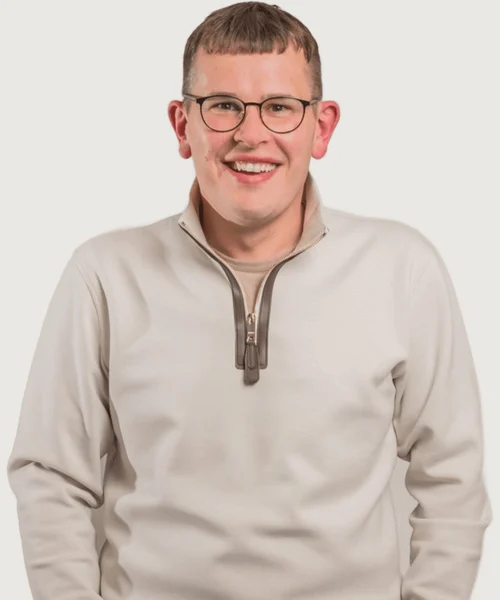
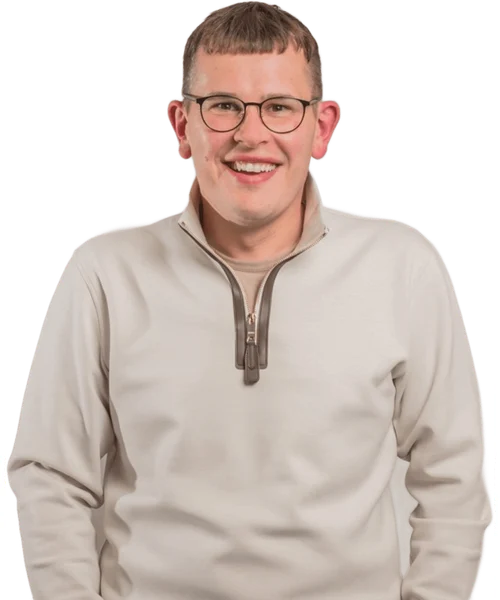
copy edits, photos on white, add Reece, System section rewrite
Quote data:
- Robbie Newton: "I feel like I did when I was in my early thirties"
  (was "gained another five years")
- Jaz RESULTS: 110kg → 102kg; "Enjoying it, which is what makes it last"
  (was "hold"); quote rewritten to "Mindset and fitness-wise, I'm the
  best I've ever been."
- Jaz QUOTES: same new quote, marked wide:true so both faces show
- Added Reece as a wide entry: "First half marathon four months in.
  Something I never thought I could do." / metric with the marathon
  fact.

Photos regenerated on WHITE background (was beige) so the flattened
edge blends into the .qc-media white card:
- Matt, Sanchia, Darren, Sana, Rob, Steve — bg-removed, white canvas
- Andrew — wider pre-crop (28..98%) so whole face + shoulders show
- Mani — natural background restored (no bg-remove)
- Jaz — wider landscape crop showing both faces (1:1 wide slot)
- Reece — 1:1 crop of the marathon photo, used as wide entry

CSS:
- .qc-photo background #e9e7e2 → #fff so no beige shows through
- .qc-meta is a flex column with flex:1 so caption fills the remaining
  white space vertically and centers its content (Kieran/Vish name and
  role now sit visually centered in the white area beside/below photo)
- Mobile qc-quote font-size fixed 22px (was clamp starting 20px), mobile
  qc-metric 15px (was 14) so shorter quotes fill the space better on
  mobile without breaking Sana's longer quote

System section:
- Removed the sub paragraph under "The system we install underneath
[…]

diff --git a/app/page.tsx b/app/page.tsx
@@ -51,7 +51,7 @@ const RESULTS: Result[] = [
     quote: "My mindset shift to not needing to overeat has been my biggest win." },
   { yt: "wLREk3NHYd0", name: "Robbie Newton", role: "Owner, plumbing & heating business · £2M turnover",
     results: ["Best year the business has had in a long time", "Burnt out with no brain space, to mindset and strength back", "Present and happier at home"],
-    quote: "I'm the captain again, steering the ship. I feel like I've gained another five years." },
+    quote: "I'm the captain again, steering the ship. I feel like I did when I was in my early thirties." },
   { yt: "n2GZO2-QZtQ", name: "Kieran Kearns", role: "Senior Bid Manager, Frankham Group",
     results: ["140kg down to 105kg in a year", "First Wolf Run in over a decade", "Energy to perform at work and keep up with his son"],
     quote: "Going to the root cause, and building my energy back up." },
@@ -71,8 +71,8 @@ const RESULTS: Result[] = [
     results: ["Headhunted for a role he could not even have thought of", "The role pays well over six figures", "First interview went incredibly well"],
     quote: "Big kudos to the mindset you helped me achieve, and the confidence I now have. I did not have that before." },
   { yt: "yoKPbAjhfIo", name: "Jaz", role: "Property business owner",
-    results: ["Down to 110kg, a weight he had not seen in three to four years", "Mindset and fitness the best they have ever been", "Enjoying it, which is what makes it hold"],
-    quote: "Sometimes it doesn't feel hard. It feels like you're not doing anything, but it's still working in the background." },
+    results: ["Down to 102kg, a weight he had not seen in four years", "Mindset and fitness the best they have ever been", "Enjoying it, which is what makes it last"],
+    quote: "Mindset and fitness-wise, I'm the best I've ever been." },
   { yt: "bn35xfRdFEQ", name: "Lukman", role: "Dentist",
     results: ["WHOOP stress reading hit zero for the first time ever", "Slept properly instead of overthinking his first patient complaint", "Handled it calmly the next morning, and the complaint was dropped"],
     quote: "The thing that would have wrecked a week became a conversation." },
@@ -109,12 +109,15 @@ const QUOTES: Quote[] = [
   { photo: "/Testimonial pictures/Kieran - 1.webp", wide: true, name: "Kieran Kearns", role: "Senior Bid Manager, Frankham Group",
     metric: "30.1kg down in just under eight months",
     quote: "Going to the root cause, and building my energy back up." },
+  { photo: "/images/reece.webp", wide: true, name: "Reece", role: "Maxillofacial dentist",
+    metric: "16.5 lbs lost in four months · first-ever half marathon in 1h 49m",
+    quote: "First half marathon four months in. Something I never thought I could do." },
   { photo: "/images/mani-konkon.webp", name: "Mani Konkon", role: "Finance Director",
     metric: "Years of failed attempts, finally sustainable",
     quote: "It became apparent quickly why my years had not been successful. George's focus on a sustainable plan and execution has led to the biggest win for me, which is a shift in mentality around weight loss and healthy living." },
-  { photo: "/images/jaz.webp", name: "Jaz", role: "Property business owner",
+  { photo: "/images/jaz.webp", wide: true, name: "Jaz", role: "Property business owner",
     metric: "Down to 102kg — a weight he hadn't seen in four years",
-    quote: "Sometimes it doesn't feel hard. It feels like you're not doing anything, but it's still working in the background." },
+    quote: "Mindset and fitness-wise, I'm the best I've ever been." },
   { photo: "/images/jacob.webp", name: "Jacob", role: "Journalist, financial publication, London",
     metric: "Back pain 7 out of 10, spiking to 9, completely down to 0 after working with George",
     quote: "Take the jump." },
@@ -630,16 +633,13 @@ export default function Page() {
             <div className="center sec-head">
               <div className="eyecenter"><span className="goldbar" /><span className="eyebrow">The system</span><span className="goldbar" /></div>
               <h2>The system we install <span className="gold">underneath your health.</span></h2>
-              <p className="sub" style={{ marginTop: 18 }}>
-                Five parts, built in this order. Most people try to solve a performance problem with more output when what they actually have is a recovery problem. Your recovery has to be equal to or greater than your stress.
-              </p>
             </div>
             <div className="five">
-              <div className="f"><div className="f-n">01</div><h3>Psychology</h3><p>Identity, beliefs, and why the start date keeps moving when the only setting is zero or a hundred.</p></div>
-              <div className="f"><div className="f-n">02</div><h3>Stress &amp; recovery</h3><p>Nervous system, sleep, HRV. Where burnout gets built, and where it gets dismantled.</p></div>
+              <div className="f"><div className="f-n">01</div><h3>Psychology</h3><p>Identity, beliefs, and why the start date keeps moving when the only setting is zero or a hundred. Nothing changes long term without getting this right.</p></div>
+              <div className="f"><div className="f-n">02</div><h3>Stress &amp; recovery</h3><p>Recovery must be equal to or greater than stress, and it has to be managed deliberately.</p></div>
               <div className="f"><div className="f-n">03</div><h3>Nutrition</h3><p>Evidence-based and simple. Eating more than you intend is a system gap, not a willpower gap.</p></div>
-              <div className="f"><div className="f-n">04</div><h3>Physical health</h3><p>Minimum effective dose, built around your actual diary and training you enjoy.</p></div>
-              <div className="f"><div className="f-n">05</div><h3>Measurement</h3><p>What gets measured gets managed. Your data decides what changes next, not guesswork.</p></div>
+              <div className="f"><div className="f-n">04</div><h3>Physical health</h3><p>Built on training you enjoy and that gives you energy, not something you have to endure.</p></div>
+              <div className="f"><div className="f-n">05</div><h3>Measurement</h3><p>What gets measured gets managed. Your data decides what changes, not guesswork — very much like the way a business runs.</p></div>
             </div>
           </Reveal>
         </section>
@@ -659,7 +659,7 @@ export default function Page() {
             <div className="shots">
               {[
                 { src: "/images/app-daily-plan.webp", alt: "Daily plan and habit tracking", title: "Daily plan and habits", caption: "The day's actions in one list, ticked off as you go.", w: 590, h: 930 },
-                { src: "/images/app-training.webp", alt: "Personalised training with video guidance", title: "Your training sessions", caption: "Every session written for you, with video for each movement.", w: 590, h: 932 },
+                { src: "/images/app-training.webp", alt: "Personalised training with video guidance", title: "Your training sessions", caption: "Every session written for you, with a video to show you each movement.", w: 590, h: 932 },
                 { src: "/images/app-nutrition.webp", alt: "Meal plans and nutrition tracking", title: "Meals and nutrition", caption: "Built around what you actually eat. Nothing off limits.", w: 590, h: 931 },
                 { src: "/images/app-dashboard.webp", alt: "Progress dashboard covering sleep, steps, weight and trends", title: "Your dashboard", caption: "Sleep, steps, weight and trends, reviewed on every call.", w: 590, h: 931 },
               ].map((s) => (
@@ -681,7 +681,7 @@ export default function Page() {
               <div className="course-txt">
                 <span className="eyebrow">Included</span>
                 <h3 style={{ marginTop: 14 }}>The full education course, on demand</h3>
-                <p>Every lesson sits inside the app as video, so you learn why you are doing each thing rather than just following instructions. Watch it whenever the list finishes, and revisit any of it whenever you need to.</p>
+                <p>Every lesson sits inside the app as video, so you learn why you are doing each thing rather than just following instructions. Watch it on-demand and revisit any session when you need.</p>
               </div>
             </div>
             <div className="eyebrow" style={{ marginBottom: 8 }}>What is included</div>

diff --git a/app/globals.css b/app/globals.css
@@ -190,13 +190,14 @@ iframe.emb { width: 100%; aspect-ratio: 16/9; border: 0; display: block; }
 .qc-media { background: #fff; display: flex; flex-direction: column; padding: 0; }
 @media (min-width: 820px) { .qc-media { flex: 0 0 38%; } }
 /* Photo aspect: square on mobile (compact, face visible), portrait 4:5 on
-   desktop (more editorial). Wide collages stay 1:1 at every breakpoint. */
-.qc-photo { width: 100%; aspect-ratio: 1 / 1; overflow: hidden; background: #e9e7e2; position: relative; }
+   desktop (more editorial). Wide collages stay 1:1 at every breakpoint.
+   White background so bg-removed portraits blend seamlessly with .qc-media */
+.qc-photo { width: 100%; aspect-ratio: 1 / 1; overflow: hidden; background: #fff; position: relative; }
 @media (min-width: 820px) { .qc-photo { aspect-ratio: 4 / 5; } }
 .qc-photo img { width: 100%; height: 100%; object-fit: cover; object-position: center top; }
 .qc-photo-wide { aspect-ratio: 1 / 1; }
 .qc-photo-wide img { object-position: center center; }
-.qc-meta { padding: 14px 18px 18px; text-align: center; margin-top: 0; }
+.qc-meta { padding: 14px 18px 18px; text-align: center; margin-top: 0; display: flex; flex-direction: column; align-items: center; justify-content: center; flex: 1; }
 @media (min-width: 820px) { .qc-meta { padding: 18px 22px 22px; } }
 .qc-meta.no-photo { padding: 56px 24px; text-align: center; }
 .qc-name { font-family: Georgia, serif; font-size: clamp(22px, 2.4vw, 30px); color: var(--navy); line-height: 1.15; }
@@ -204,8 +205,10 @@ iframe.emb { width: 100%; aspect-ratio: 16/9; border: 0; display: block; }
 .qc-stars { margin-top: 12px; font-size: 17px; letter-spacing: .2em; }
 .qc-right { flex: 1; display: flex; flex-direction: column; justify-content: center; padding: 22px 20px; color: #fff; text-align: left; }
 @media (min-width: 820px) { .qc-right { padding: 32px 36px; } }
-.qc-quote { font-family: Georgia, serif; font-size: clamp(20px, 2.2vw, 28px); line-height: 1.35; color: #fff; }
-.qc-metric { margin-top: 16px; padding-top: 14px; border-top: 1px solid var(--border-dark); font-size: clamp(14px, 1.3vw, 16px); color: var(--gold); letter-spacing: .03em; line-height: 1.55; }
+.qc-quote { font-family: Georgia, serif; font-size: 22px; line-height: 1.35; color: #fff; }
+@media (min-width: 820px) { .qc-quote { font-size: clamp(22px, 2.2vw, 28px); } }
+.qc-metric { margin-top: 16px; padding-top: 14px; border-top: 1px solid var(--border-dark); font-size: 15px; color: var(--gold); letter-spacing: .03em; line-height: 1.55; }
+@media (min-width: 820px) { .qc-metric { font-size: clamp(14px, 1.3vw, 16px); } }
 
 /* Slide with no photo — single centered column, everything centered */
 .track-q .slide-nopic { flex-direction: column; }
